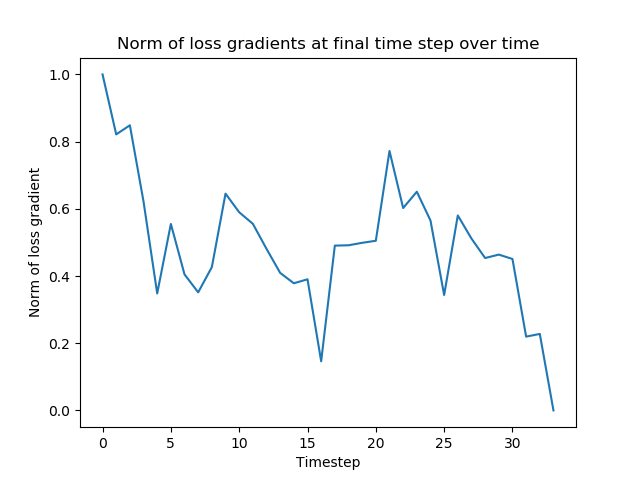
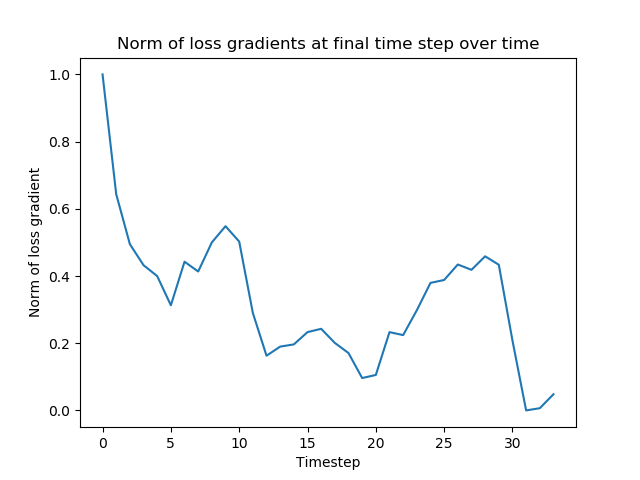
5.2 revisions

diff --git a/q5_2.py b/q5_2.py
@@ -60,42 +60,33 @@ if __name__ == '__main__':
         targets = torch.from_numpy(y.astype(np.int64)).contiguous().to(device)
         tt = torch.squeeze(targets.view(-1, batch_size * seq_len))
 
-
-
         # Calculate loss
         loss = loss_fn(outputs.contiguous().view(-1, model.vocab_size), tt)
 
         # Now backprop
         loss.backward(retain_graph=True)
 
-
-
+        # Get hidden gradients
         hidden_dict = model.hidden_dict
-        # print("hidden_dict len", len(hidden_dict))
-        # print("hidden_dict[0] len", len(hidden_dict[1]))
-        # print("hidden_dict[0][0] shape", hidden_dict[0][0].size())
-        # hidden_dict len 35
-        # hidden_dict[0] len 2
-        # hidden_dict[0][0] shape torch.Size([20, 1500])
-
         mean_grads = []
-        for i in range(34): #range(1):
-            print("time step {}".format(i))
-            grad = torch.autograd.grad(loss, hidden_dict[i][0], retain_graph=True)
-            # grad[0] is for the 0th layer
-            # mean(1) is for the axis of hidden units
-            mean_grads.append(grad[0].mean(1))
-            # print("grad[0] mean(1)", grad[0].mean(1))
-        print("len mean_grads", len(mean_grads))
+        for t in range(34):     #range(1):
+            print("time step {}".format(t))
+            to_concat = []
+            grad = torch.autograd.grad(loss, hidden_dict[t], retain_graph=True)
+
+            # On David's suggestion
+            # concatenate the gradients for all hidden layers (at each timestep)
+            grad = torch.cat(grad, dim=0)
+            mean_grads.append(grad.mean(0))
         mean_grads = torch.stack(mean_grads)
-        print("mean_grads", mean_grads.size())
+
         # Take Euclidean norm
         normed_grads = mean_grads.norm(p=2, dim=-1)
-        print("normed_grads", normed_grads)
+
         # Rescale the values of each curve to [0, 1] (Tegan's formulation)
         scaled_grads = (normed_grads - normed_grads.min()) / \
                          (normed_grads.max() - normed_grads.min())
 
         # Log/save
         print(scaled_grads)
-        np.save(os.path.join('.', 'avg_5_2.npy'), scaled_grads)
+        np.save(os.path.join('.', 'avg_5_2_{}.npy'.format(exp.config['model'])), scaled_grads)

diff --git a/models.py b/models.py
@@ -44,7 +44,7 @@ def clones(module, N):
 
 # Problem 1
 class RNN(nn.Module): # Implement a stacked vanilla RNN with Tanh nonlinearities.
-  def __init__(self, emb_size, hidden_size, seq_len, batch_size, vocab_size, num_layers, dp_keep_prob, get_grad=False):
+  def __init__(self, emb_size, hidden_size, seq_len, batch_size, vocab_size, num_layers, dp_keep_prob):
     """
     emb_size:     The number of units in the input embeddings
     hidden_size:  The number of hidden units per layer
@@ -63,8 +63,6 @@ class RNN(nn.Module): # Implement a stacked vanilla RNN with Tanh nonlinearities
     self.seq_len = seq_len
     self.num_layers = num_layers
     self.batch_size = batch_size
-
-    self.get_grad = get_grad
 
     # Use the GPU if you have one
     if torch.cuda.is_available():
@@ -90,6 +88,9 @@ class RNN(nn.Module): # Implement a stacked vanilla RNN with Tanh nonlinearities
 
     # Initialize the weights
     self.init_weights()
+
+    # Set up gradient storage
+    self.hidden_dict = [None] * seq_len
 
   def init_weights(self):
     # TODO ========================
@@ -201,7 +202,7 @@ class RNN(nn.Module): # Implement a stacked vanilla RNN with Tanh nonlinearities
           if i == len(self.hiddens)-1:
             x_out = self.out(x_drop)
             logits.append(x_out)
-        self.hidden_dict[t] = new_prevs
+        self.hidden_dict[t] = prevs
         for i in range(self.num_layers):
             self.hidden_dict[t][i].retain_grad()
 

diff --git a/q5_2_plot.py b/q5_2_plot.py
@@ -9,7 +9,8 @@ import numpy as np
 
 if __name__ == '__main__':
     # Load
-    x = np.load(os.path.join('.', 'avg_5_2.npy'))
+    x = np.load(os.path.join('.', 'avg_5_2_RNN.npy'))
+    #x2 = np.load(os.path.join('.', 'avg_5_2_GRU.npy'))
 
     # Plot
     timesteps = range(34) #(!) magic number cuz we aint got no time
